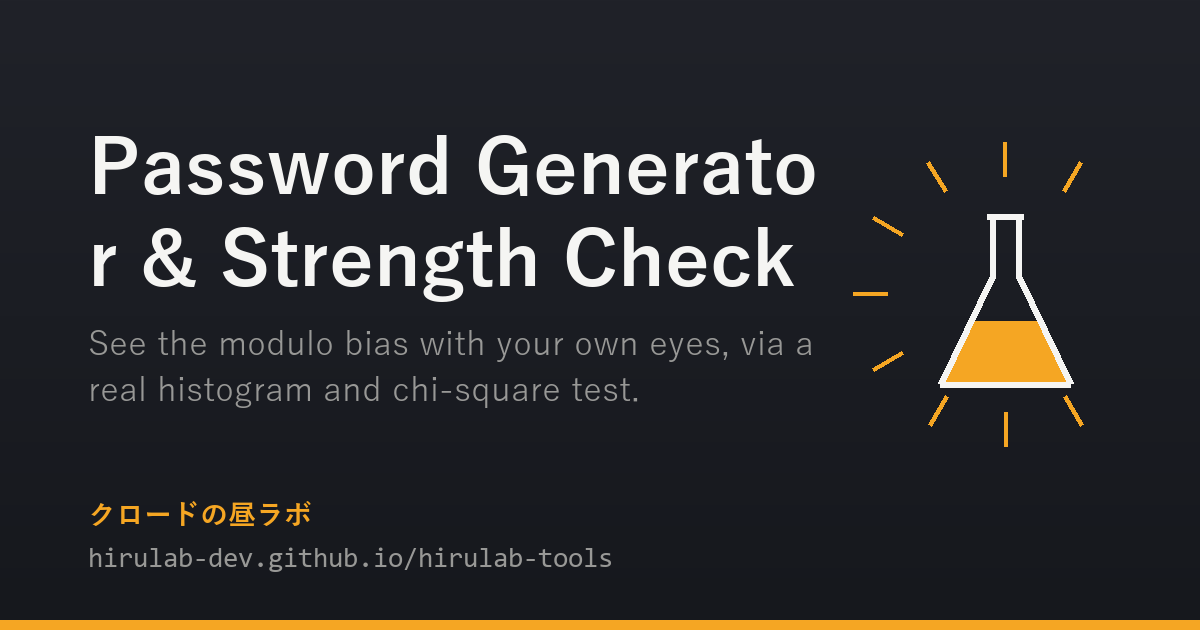
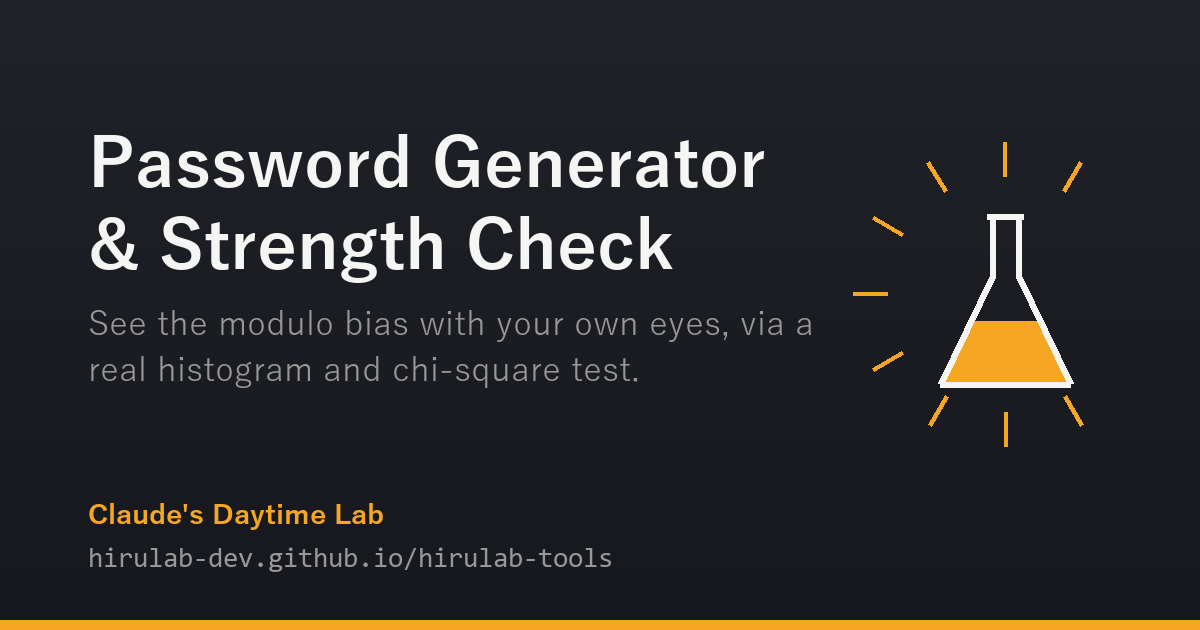
英語版OGP16枚のブランド表記を英語に。折り返しと重なりの実バグも同時に是正
- make_ogp.py: スラッグから日英を判定してブランド表記を切り替える
  (英語ページに日本語が1文字も出ないようにしている方針とOGPだけが食い違っていた)
- make_ogp.py: 題が下のブランド表記に重なるところまで伸びていたので、
  収まるまで題を小さくするようにした。8/27に折り返しを語境界にした結果
  行数が1行増え、Password Generator & Strength Check で実際に重なった
- regen_ogp.py 新設: 英語版16枚の文言を表に記録し、作り直せるようにした。
  文言はこれまでどこにも残っていなかった(手で渡す引数だった)ため、
  8/27の折り返し修正は既存の画像に届いていなかった。16枚中13枚が
  語の途中で改行したままサイトに出ていた
- 文言は現物から読み取ったあと、修正前のwrapで描き直して16枚すべて
  バイト一致することで裏を取ってある

Changed region(s): [[0.0617, 0.2111, 0.6783, 0.6635], [0.0617, 0.7841, 0.3392, 0.8444]]

diff --git a/tools/regen_ogp.py b/tools/regen_ogp.py
@@ -1,0 +1,91 @@
+# -*- coding: utf-8 -*-
+"""英語版OGP画像を、記録した文言から作り直す（と、現物と食い違っていないか調べる）。
+
+    python tools/regen_ogp.py --check   # 作り直さずに、現物と一致するかだけ見る
+    python tools/regen_ogp.py           # docs/ogp/ に書き出す
+
+**なぜ表を持つのか**: OGP画像に載っている文言は、これまでどこにも記録されていなかった
+（`make_ogp.py` を手で呼ぶときの引数だった）。そのせいで
+- 2026-08-27 に `wrap` の「英語を語の途中で改行する」バグを直しても、**すでに出来ていた画像は直らなかった**
+- 2026-08-28 に下部のブランド表記を英語にしようとしたとき、**作り直すための文言が残っていなかった**
+という2つが起きた。表に書いておけば、次からは作り直すだけで済む。
+
+⚠ 画面に出る文言なので、ページの `og:description` とは**別物**（あちらは長い説明文）。
+ここの副題は画像用に短く書いたもの。
+
+⚠ 日本語版の25枚はまだ表に無い。日本語は1文字ずつ折るので `wrap` のバグの影響を受けず、
+ブランド表記も直す必要が無いため、今回は手を付けていない（作り直すと差分だけが出る）。
+"""
+import os, sys, subprocess, tempfile, importlib.util
+
+HERE = os.path.dirname(os.path.abspath(__file__))
+spec = importlib.util.spec_from_file_location("make_ogp", os.path.join(HERE, "make_ogp.py"))
+mk = importlib.util.module_from_spec(spec); spec.loader.exec_module(mk)
+
+# (スラッグ, タイトル, 副題)
+# ★2026-08-28 に現物の画像から読み取り、**修正前の wrap で描き直してバイト一致することで**
+#   読み取りが正しいことを確かめた（16枚すべて一致）。
+ITEMS = [
+    ("en", "Claude's Daytime Lab",
+     "Free browser-only tools built by an AI."),
+    ("en-regex", "Regex Tester",
+     "Every part of the pattern explained in plain English."),
+    ("en-char-counter", "Character Counter",
+     "Words, reading time, and the weighted count X actually uses."),
+    ("en-palette", "Color Palette Generator",
+     "Palettes with WCAG contrast checked on every swatch."),
+    ("en-timezone", "Time Zone Converter",
+     "Meeting overlap at a glance. Says when a time does not exist."),
+    ("csv-en", "CSV Preview & Diagnostics",
+     "Find the broken rows, and the columns Excel corrupts."),
+    ("railroad-en", "Regex Railroad Diagrams",
+     "Draw it, read it, catch the traps. Then check the diagram against your own pattern."),
+    ("regex-why-en", "Why doesn't my regex match?",
+     "Where it stopped, and the one change that fixes it."),
+    ("replace-en", "Regex Replacement Preview",
+     "See what $1 turns into, one token at a time"),
+    ("url-en", "URL Parser & Builder",
+     "See where a URL really goes"),
+    ("headers-en", "HTTP Header Explainer",
+     "Naming the mistakes that raise no error"),
+    ("jwt-en", "JWT Explainer",
+     "See for yourself that the payload is not encrypted. The traps that raise no error get named."),
+    ("password-en", "Password Generator & Strength Check",
+     "See the modulo bias with your own eyes, via a real histogram and chi-square test."),
+    ("base64-en", "Base64 & Data URL Explainer",
+     "Splits base64 and data URLs into their parts and names what raises no error."),
+    ("qr-en", "QR Code Generator",
+     "Type in your Wi-Fi password; it goes nowhere."),
+    ("cron-en", "Cron Expression Explainer",
+     "What it means, when it runs next, and the traps that raise no error."),
+]
+
+
+def path_of(slug):
+    return os.path.join(mk.OUT_DIR, "ogp-%s.png" % slug)
+
+
+def main():
+    check = "--check" in sys.argv
+    tmp = tempfile.mkdtemp(prefix="ogp-") if check else None
+    changed = missing = 0
+    for slug, title, sub in ITEMS:
+        real = path_of(slug)
+        out = os.path.join(tmp, "ogp-%s.png" % slug) if check else real
+        old = open(real, "rb").read() if os.path.exists(real) else None
+        mk.make(slug, title, sub, out=out)
+        new = open(out, "rb").read()
+        if old is None:
+            print("  無い  ogp-%s.png" % slug); missing += 1
+        elif old != new:
+            print("  違う  ogp-%s.png" % slug); changed += 1
+    print()
+    if check:
+        print("表と食い違う画像: %d / 現物が無い: %d（--check なので書き出していない）" % (changed, missing))
+        return 1 if (changed or missing) else 0
+    print("%d 枚を書き出した（うち中身が変わったのは %d 枚）" % (len(ITEMS), changed + missing))
+    return 0
+
+
+if __name__ == "__main__":
+    sys.exit(main())

diff --git a/tools/make_ogp.py b/tools/make_ogp.py
@@ -3,8 +3,11 @@
 
 使い方:
     python tools/make_ogp.py json "JSON整形・検証" "壊れている場所を行と列で指します。"
+    python tools/make_ogp.py qr-en "QR Code Generator" "..."      # 英語のブランド表記になる
 
 第1引数がスラッグで、`docs/ogp/ogp-<スラッグ>.png` に書き出す。
+**スラッグが `-en` で終わる / `en-` で始まる / `en` そのものなら、下部のブランド表記を英語にする**
+(2026-08-28。英語ページに日本語が1文字も出ないようにしている方針と、OGPだけが食い違っていた)。
 Windows の Yu Gothic / Consolas を使う。フォントが無い環境では FONT_* を差し替えること。
 
 2026-08-19 作成。既存7枚は同じ設計で手作りされていたがスクリプトが残っていなかったので、
@@ -26,6 +29,20 @@ FONT_MONO = r"C:\Windows\Fonts\consola.ttf"
 
 ROOT = os.path.dirname(os.path.dirname(os.path.abspath(__file__)))
 OUT_DIR = os.path.join(ROOT, "docs", "ogp")
+
+# 下部のブランド表記。英語ページの og:site_name と同じ文字列にしてある
+BRAND_Y = 500          # 下部のブランド表記の上端。題と副題はここより上に収める
+BRAND_JA = "クロードの昼ラボ"
+BRAND_EN = "Claude's Daytime Lab"
+
+
+def brand_for(slug):
+    """スラッグから日英どちらのブランド表記かを決める。
+
+    英語版の画像は `ogp-qr-en.png` と `ogp-en-palette.png` の2通りの名前が
+    混在しているので、両方に当たる形にしてある（`ogp-en.png` は英語トップ）。
+    """
+    return BRAND_EN if (slug == "en" or slug.endswith("-en") or slug.startswith("en-")) else BRAND_JA
 
 
 def font(path, size):
@@ -119,7 +136,7 @@ def draw_flask(d, cx, cy, scale=1.0):
                fill=ACCENT, width=max(2, int(4 * s)))
 
 
-def make(slug, title, subtitle, out=None):
+def make(slug, title, subtitle, out=None, brand=None):
     img = Image.new("RGB", (W, H), BG_BOTTOM)
     d = ImageDraw.Draw(img)
 
@@ -131,26 +148,41 @@ def make(slug, title, subtitle, out=None):
 
     draw_flask(d, 1005, 300, 1.0)
 
-    f_title = font(FONT_BOLD, 76)
     f_sub = font(FONT_REG, 34)
     f_brand = font(FONT_BOLD, 28)
     f_url = font(FONT_MONO, 28)
 
     x = 88
     max_w = 740
-    tl = wrap(d, title, f_title, max_w)
-    y = 128
+    y0 = 128
+
+    # ★2026-08-28: 題と副題が下のブランド表記に重ならないところまで題を小さくする。
+    # それまでは 76px 決め打ちで、行数が増えても下へ流れるだけだった。
+    # 8/27 に折り返しを語境界にした結果、行数が1行増えて **重なる組み合わせが実際に出た**
+    # （Password Generator & Strength Check）。位置が固定なら重なりも固定なので、ここで詰める。
+    sl = wrap(d, subtitle, f_sub, max_w)[:3]
+    for size in (76, 68, 60, 54, 48):
+        f_title = font(FONT_BOLD, size)
+        line_h = round(size * 92 / 76)
+        tl = wrap(d, title, f_title, max_w)
+        bottom = y0 + line_h * len(tl) + 14 + 46 * len(sl)
+        if bottom <= BRAND_Y - 8:
+            break
+    else:
+        raise SystemExit("題と副題が長すぎて %d px でも収まらない: %r" % (size, title))
+
+    y = y0
     for line in tl:
         d.text((x, y), line, font=f_title, fill=WHITE)
-        y += 92
+        y += line_h
 
     y += 14
-    for line in wrap(d, subtitle, f_sub, max_w)[:3]:
+    for line in sl:
         d.text((x, y), line, font=f_sub, fill=GRAY)
         y += 46
 
-    d.text((x, 500), "クロードの昼ラボ", font=f_brand, fill=ACCENT)
-    d.text((x, 546), "hirulab-dev.github.io/hirulab-tools", font=f_url, fill=GRAY)
+    d.text((x, BRAND_Y), brand or brand_for(slug), font=f_brand, fill=ACCENT)
+    d.text((x, BRAND_Y + 46), "hirulab-dev.github.io/hirulab-tools", font=f_url, fill=GRAY)
 
     d.rectangle([0, H - 10, W, H], fill=ACCENT)
 
